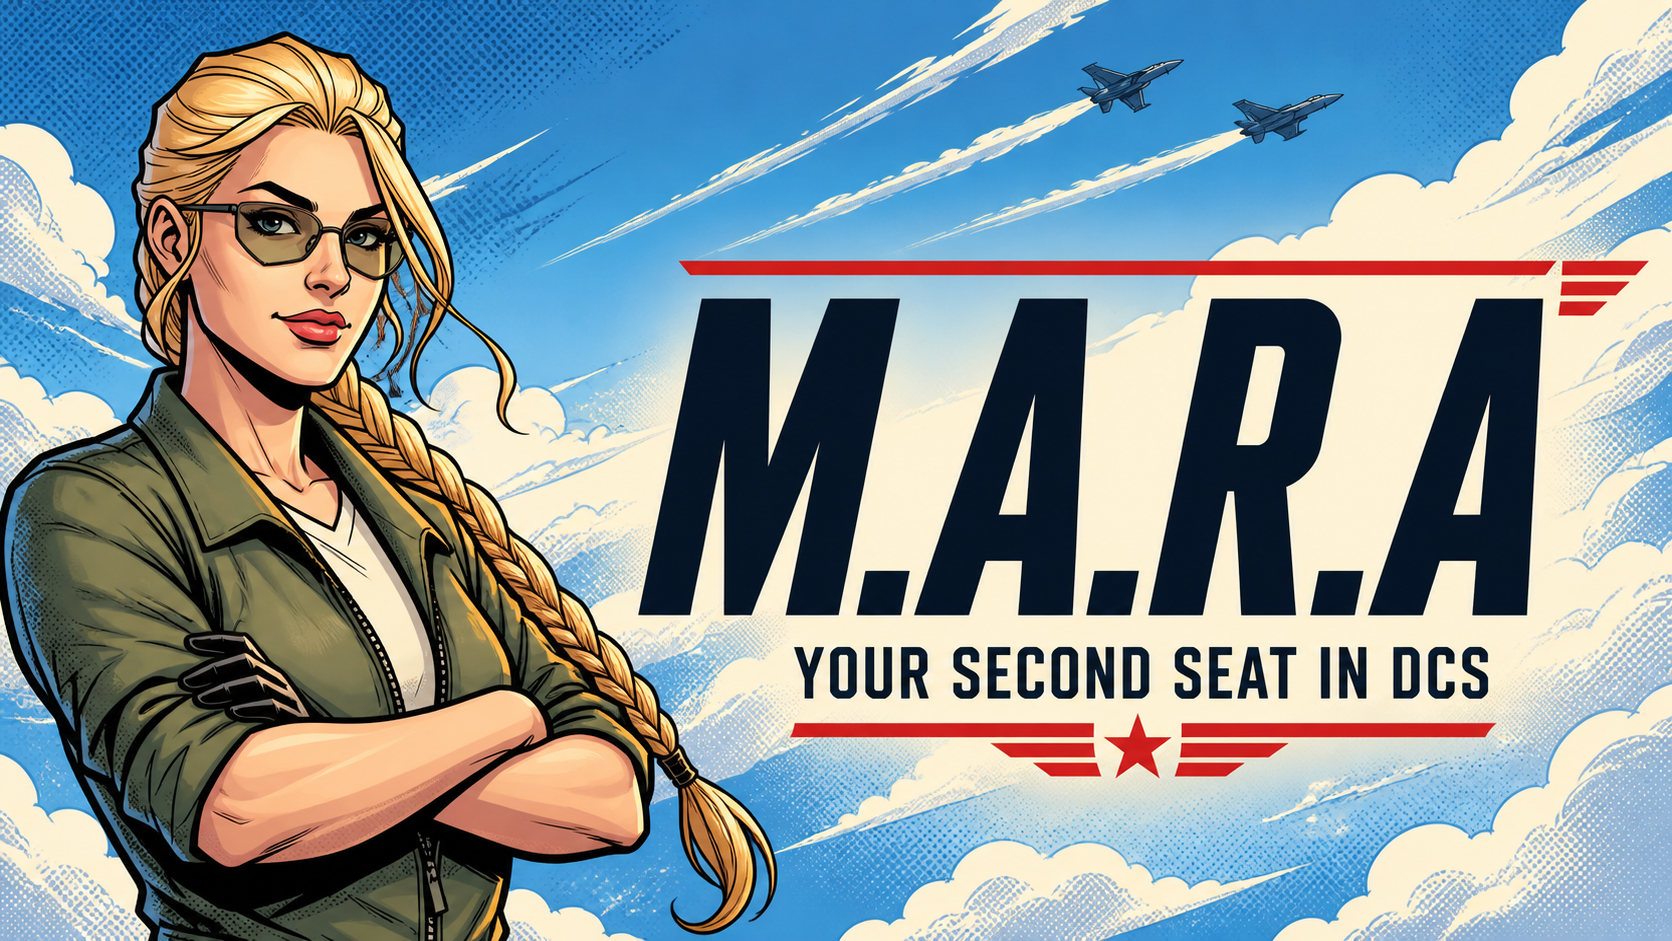
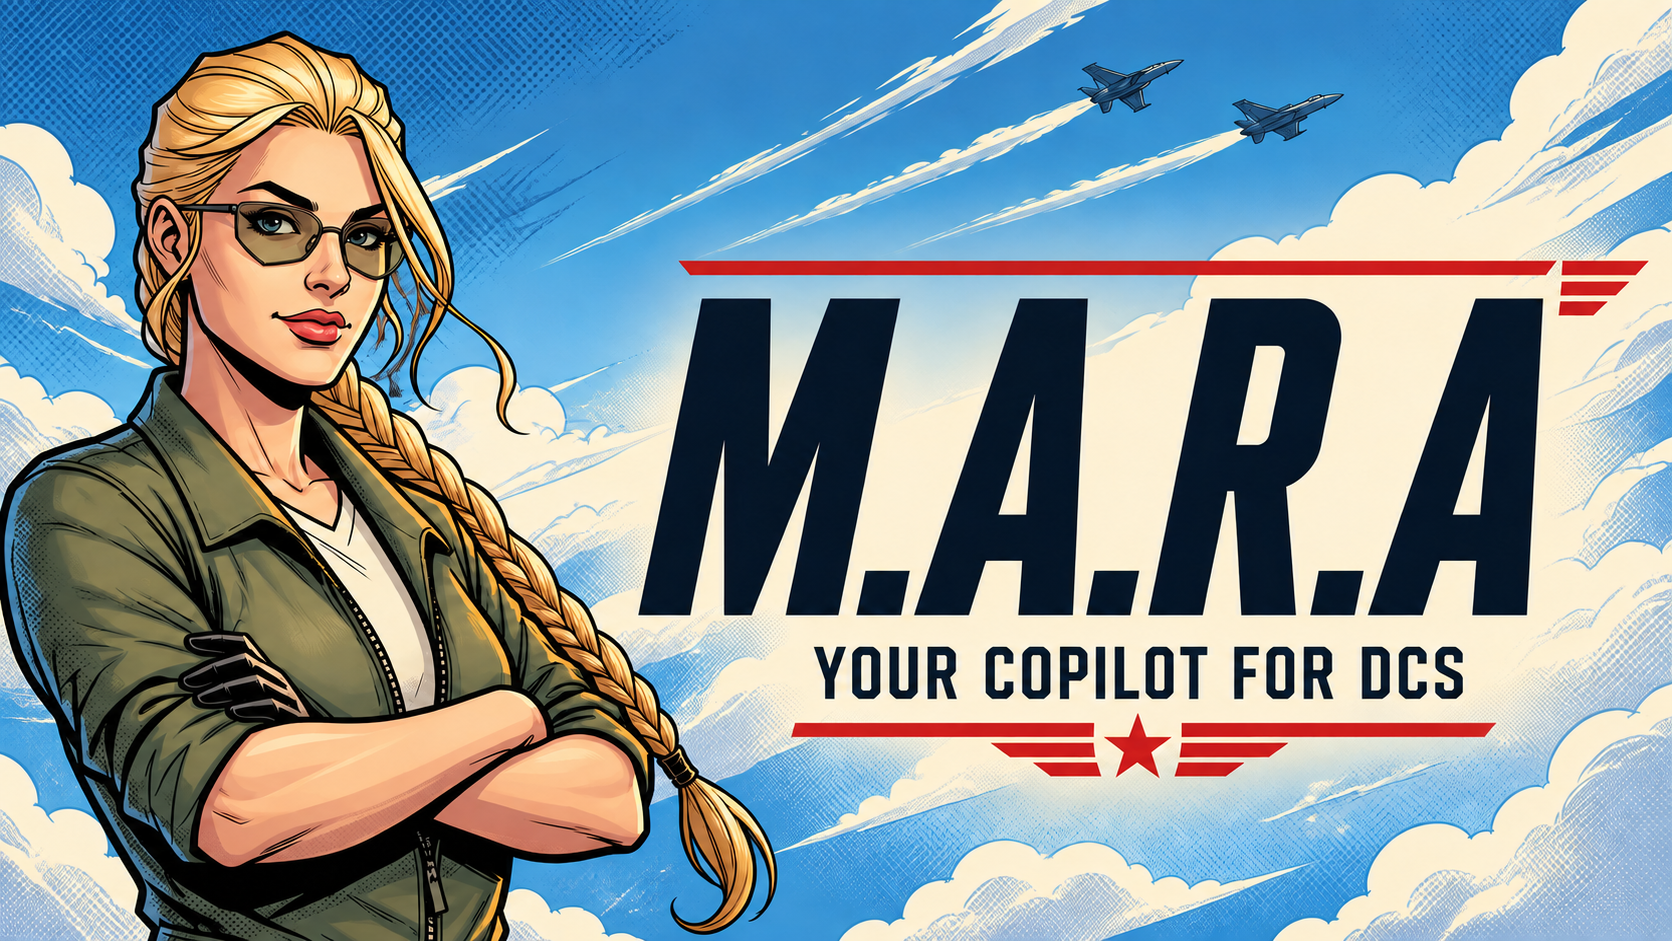
Rewrite MARA site around community early access

diff --git a/website/app/page.tsx b/website/app/page.tsx
@@ -1,10 +1,10 @@
 import { roadmap } from "./roadmap-data";
 
 const capabilities = [
-  ["01", "Startup help", "Follow the Hornet checklist and know when you are ready to taxi."],
-  ["02", "Cockpit awareness", "Ask about switches, aircraft state, and general F/A-18C information."],
-  ["03", "Flight information", "Get useful aircraft and flight status once you are airborne."],
-  ["04", "Your controls", "Choose your microphone and speakers, then bind PTT and mute to a key, modifier combination, or HOTAS button."],
+  ["01", "Startup guidance", "Walk through an F/A-18C cold start step by step. MARA checks supported cockpit state and can tell when you’re ready to continue."],
+  ["02", "Cockpit questions", "Ask what a switch does, why a warning is on, or whether the aircraft is configured for the next step."],
+  ["03", "In-flight help", "Get concise aircraft and flight information without digging through menus or taking your hands off the controls."],
+  ["04", "Hands on the HOTAS", "Bind PTT and mute to a key or HOTAS button and talk to MARA when you need her."],
 ];
 
 export default function Home() {
@@ -18,26 +18,25 @@ export default function Home() {
           <a href="#capabilities">Capabilities</a>
           <a href="#roadmap">Roadmap</a>
           <a href="./docs/">Flight manual</a>
+          <a href="https://github.com/nabbl/dcs-copilot" target="_blank" rel="noreferrer">GitHub ↗</a>
         </nav>
-        <div className="header-actions">
-          <span className="status-pill"><i /> Free early access</span>
-          <a className="kofi-link" href="https://ko-fi.com/nabblsawesome" target="_blank" rel="noreferrer">Support on Ko-fi ↗</a>
-        </div>
+        <span className="status-pill"><i /> Early build</span>
       </header>
 
       <section className="hero" id="top">
         <div className="hero-copy">
-          <p className="eyebrow">Mission-aware realtime assistant</p>
-          <h1>Your second seat.<br /><em>Always watching.</em></h1>
+          <p className="eyebrow">Experimental voice copilot for DCS</p>
+          <h1>Your copilot <em>for DCS</em></h1>
           <p className="lede">
-            MARA is a voice copilot for DCS—aware of your aircraft, your phase
-            of flight, and what needs your attention next.
+            MARA is a voice copilot for DCS. She can follow supported cockpit
+            and flight state, help with procedures, answer questions, and point
+            out things you may have missed.
           </p>
           <div className="hero-actions">
-            <a className="button button-primary" href="./docs/">Read the flight manual <span>→</span></a>
-            <a className="text-link" href="#capabilities">See what she can do ↓</a>
+            <a className="button button-primary" href="./docs/">Get started <span>→</span></a>
+            <a className="text-link" href="#capabilities">See what works today ↓</a>
           </div>
-          <p className="hero-cost"><strong>Free to use.</strong> Bring your own OpenAI API key and pay OpenAI only for the API usage on that key.</p>
+          <p className="hero-cost"><strong>Free to use.</strong> Bring your own OpenAI API key; usage is billed directly to your OpenAI account.</p>
         </div>
 
         <div className="portrait" aria-label="Reserved area for MARA character artwork">
@@ -48,8 +47,8 @@ export default function Home() {
 
       <section className="capabilities" id="capabilities">
         <div className="section-heading">
-          <p className="eyebrow">Built for the sortie</p>
-          <h2>Not a chatbot.<br />A crew member.</h2>
+          <p className="eyebrow">F/A-18C support</p>
+          <h2>What MARA can<br />do today</h2>
         </div>
         <div className="capability-list">
           {capabilities.map(([number, title, body]) => (
@@ -62,15 +61,25 @@ export default function Home() {
         </div>
       </section>
 
+      <section className="why-section">
+        <div>
+          <p className="eyebrow">Why I built this</p>
+          <h2>It started with<br />a cold start.</h2>
+        </div>
+        <div className="why-copy">
+          <p>I started MARA because I wanted something beside me in DCS that could actually understand what was happening in the aircraft—not just respond to voice commands. It started as a cold-start copilot and has slowly grown into an experiment in what a useful virtual crew member could be.</p>
+          <p>I don’t know yet what MARA should become. That’s part of why I’m putting it out there early.</p>
+        </div>
+      </section>
+
       <section className="home-roadmap" id="roadmap">
         <div className="home-roadmap-heading">
           <div>
-            <p className="eyebrow">Development vector</p>
-            <h2>The MARA<br /><em>roadmap.</em></h2>
+            <p className="eyebrow">What I’m working on</p>
+            <h2>Where MARA<br /><em>goes next</em></h2>
           </div>
           <div className="roadmap-summary">
-            <p>MARA starts narrow and earns her way outward: first the F/A-18C, then better awareness and coaching, then more aircraft.</p>
-            <span>Direction, not a promise of dates.</span>
+            <p>This is a working roadmap, not a release schedule. Priorities will change based on what people actually use and ask for.</p>
           </div>
         </div>
         <div className="roadmap-grid" aria-label="MARA product roadmap">
@@ -90,18 +99,30 @@ export default function Home() {
       </section>
 
       <section className="open-source-callout">
-        <p className="eyebrow">Open source</p>
-        <h2>MARA will be<br /><em>open source.</em></h2>
         <div>
-          <p>You’ll be able to read the code, report problems, contribute fixes, and help add support for other aircraft.</p>
-          <a className="button" href="#roadmap">See the roadmap <span>↑</span></a>
+          <p className="eyebrow">Community project</p>
+          <h2>Built for<br /><em>DCS pilots.</em></h2>
         </div>
+        <div className="community-copy">
+          <p>MARA is a hobby project built for DCS pilots. The code is open source, and contributions are welcome—whether that’s a bug report, an aircraft mapping, a procedure, or an idea for something that would actually help in the cockpit.</p>
+          <a className="button" href="https://github.com/nabbl/dcs-copilot" target="_blank" rel="noreferrer">View on GitHub <span>↗</span></a>
+          <p className="community-note">Especially welcome: tell me what you actually want MARA to do.</p>
+        </div>
+      </section>
+
+      <section className="support-callout">
+        <div>
+          <p className="eyebrow">Support the project</p>
+          <h2>Like MARA?</h2>
+        </div>
+        <p>MARA is free and open source. If you want to help cover development costs, you can buy me a coffee.</p>
+        <a className="button" href="https://ko-fi.com/nabblsawesome" target="_blank" rel="noreferrer">Support on Ko-fi <span>↗</span></a>
       </section>
 
       <footer>
         <div className="footer-mark">M.A.R.A</div>
         <p>Mission-Aware Realtime Assistant</p>
-        <div className="footer-links"><a href="#roadmap">Roadmap</a><a href="./docs/">Flight manual →</a></div>
+        <div className="footer-links"><a href="#roadmap">Roadmap</a><a href="./docs/">Flight manual</a><a href="https://github.com/nabbl/dcs-copilot" target="_blank" rel="noreferrer">GitHub ↗</a></div>
       </footer>
     </main>
   );

diff --git a/website/app/globals.css b/website/app/globals.css
@@ -36,9 +36,6 @@ nav { display: flex; gap: 32px; font-size: 13px; font-weight: 700; }
 nav a:hover, footer a:hover { color: var(--red); }
 .status-pill { justify-self: end; border: 1px solid var(--ink); border-radius: 999px; padding: 8px 12px; font: 700 10px var(--font-geist-mono), monospace; text-transform: uppercase; letter-spacing: .08em; }
 .status-pill i { width: 7px; height: 7px; border-radius: 50%; display: inline-block; background: var(--red); margin-right: 7px; }
-.header-actions { justify-self: end; display: flex; align-items: center; gap: 10px; }
-.kofi-link { padding: 9px 12px; color: #fff; background: var(--red); border: 1px solid var(--ink); font: 800 10px var(--font-geist-mono), monospace; letter-spacing: .06em; text-transform: uppercase; box-shadow: 3px 3px 0 var(--ink); }
-.kofi-link:hover { transform: translate(2px, 2px); box-shadow: 1px 1px 0 var(--ink); }
 
 .hero {
   min-height: calc(100vh - 78px);
@@ -52,6 +49,7 @@ nav a:hover, footer a:hover { color: var(--red); }
 .eyebrow::before { content: ""; display: inline-block; width: 36px; height: 3px; margin: 0 10px 3px 0; background: var(--red); }
 h1 { font-size: clamp(54px, 6.7vw, 105px); line-height: .88; letter-spacing: -.07em; margin: 0; font-weight: 950; text-transform: uppercase; }
 h1 em { color: var(--blue); font-style: normal; }
+.hero h1 em { display: block; }
 .lede { max-width: 560px; font-size: clamp(17px, 1.55vw, 22px); line-height: 1.55; margin: 34px 0 38px; }
 .hero-actions { display: flex; align-items: center; gap: 28px; flex-wrap: wrap; }
 .hero-cost { max-width: 560px; margin: 28px 0 0; padding-top: 18px; border-top: 1px solid var(--line); color: #3d4958; font: 650 12px/1.55 var(--font-geist-mono), monospace; }
@@ -82,17 +80,30 @@ h1 em { color: var(--blue); font-style: normal; }
 .capability-list h3 { margin: 0; font-size: 19px; text-transform: uppercase; }
 .capability-list p { margin: 0; line-height: 1.55; color: #3d4958; }
 
+.why-section { padding: clamp(75px, 9vw, 130px) clamp(24px, 7vw, 110px); display: grid; grid-template-columns: .9fr 1.1fr; gap: 9vw; align-items: start; color: var(--cream); background: var(--ink); border-top: 2px solid var(--ink); }
+.why-section h2 { margin: 0; font-size: clamp(44px, 5.5vw, 82px); line-height: .95; letter-spacing: -.055em; text-transform: uppercase; }
+.why-copy { max-width: 680px; font-size: clamp(17px, 1.6vw, 21px); line-height: 1.65; }
+.why-copy p { margin: 0 0 24px; }
+.why-copy p:last-child { margin-bottom: 0; color: var(--sky); }
+
 .home-roadmap { scroll-margin-top: 78px; background: #f8f5e6; border-top: 2px solid var(--ink); }
 .home-roadmap-heading { padding: clamp(75px, 8vw, 120px) clamp(24px, 7vw, 110px); display: grid; grid-template-columns: 1.15fr .85fr; gap: 9vw; align-items: end; }
 .home-roadmap-heading h2 { margin: 0; font-size: clamp(52px, 7vw, 100px); line-height: .9; letter-spacing: -.065em; text-transform: uppercase; }
 .home-roadmap-heading h2 em { color: var(--blue); font-style: normal; }
 
-.open-source-callout { padding: clamp(75px, 8vw, 120px) clamp(24px, 7vw, 110px); display: grid; grid-template-columns: .7fr 1.1fr 1fr; gap: clamp(30px, 5vw, 80px); align-items: start; color: var(--cream); background: var(--blue); border-top: 2px solid var(--ink); }
+.open-source-callout { padding: clamp(75px, 8vw, 120px) clamp(24px, 7vw, 110px); display: grid; grid-template-columns: .9fr 1.1fr; gap: clamp(40px, 8vw, 130px); align-items: start; color: var(--cream); background: var(--blue); border-top: 2px solid var(--ink); }
 .open-source-callout .eyebrow { color: var(--cream); }
 .open-source-callout h2 { margin: 0; font-size: clamp(44px, 5vw, 76px); line-height: .92; letter-spacing: -.055em; text-transform: uppercase; }
 .open-source-callout h2 em { color: var(--ink); font-style: normal; }
-.open-source-callout > div p { margin: 0 0 30px; max-width: 480px; font-size: 17px; line-height: 1.65; }
+.open-source-callout .community-copy > p { margin: 0 0 30px; max-width: 650px; font-size: 17px; line-height: 1.65; }
 .open-source-callout .button { color: var(--ink); background: var(--cream); }
+.open-source-callout .community-note { margin-top: 28px; font: 750 11px/1.55 var(--font-geist-mono), monospace; letter-spacing: .04em; text-transform: uppercase; color: var(--ink); }
+
+.support-callout { padding: clamp(55px, 7vw, 90px) clamp(24px, 7vw, 110px); display: grid; grid-template-columns: .8fr 1fr auto; gap: clamp(30px, 5vw, 80px); align-items: center; background: var(--cream); border-top: 2px solid var(--ink); }
+.support-callout .eyebrow { margin-bottom: 12px; }
+.support-callout h2 { margin: 0; font-size: clamp(38px, 4.5vw, 64px); line-height: .95; letter-spacing: -.05em; text-transform: uppercase; }
+.support-callout > p { max-width: 560px; margin: 0; font-size: 17px; line-height: 1.6; }
+.support-callout .button { white-space: nowrap; color: #fff; background: var(--red); }
 
 footer { min-height: 150px; padding: 38px clamp(24px, 7vw, 110px); display: grid; grid-template-columns: auto 1fr auto; align-items: center; gap: 25px; color: var(--cream); background: var(--ink); }
 .footer-mark { font-size: 28px; font-weight: 950; }
@@ -106,12 +117,13 @@ footer a { font-size: 13px; font-weight: 800; text-transform: uppercase; }
   .hero { grid-template-columns: 1fr; }
   .portrait { min-height: 610px; border-left: 0; border-top: 2px solid var(--ink); }
   .capabilities { grid-template-columns: 1fr; }
+  .why-section { grid-template-columns: 1fr; }
   .home-roadmap-heading { grid-template-columns: 1fr; }
   .open-source-callout { grid-template-columns: 1fr; }
+  .support-callout { grid-template-columns: 1fr; }
 }
 @media (max-width: 600px) {
   .wordmark span, .status-pill { display: none; }
-  .kofi-link { font-size: 8px; padding: 8px 9px; }
   .hero-copy { padding: 70px 24px 76px; }
   h1 { font-size: clamp(48px, 15vw, 70px); }
   .portrait { min-height: 520px; }
@@ -148,7 +160,7 @@ footer a { font-size: 13px; font-weight: 800; text-transform: uppercase; }
 .manual-label { justify-self: end; font: 700 10px var(--font-geist-mono), monospace; letter-spacing: .12em; color: var(--blue); }
 .docs-main-links { display: flex; gap: 28px; font-size: 12px; font-weight: 750; }
 .docs-main-links a:hover { color: var(--red); }
-.docs-header > .kofi-link { justify-self: end; }
+.docs-header > .status-pill { justify-self: end; }
 .docs-sidebar {
   padding: 48px 28px 40px clamp(24px, 4vw, 56px);
   border-right: 1px solid var(--line);

diff --git a/website/app/roadmap-data.ts b/website/app/roadmap-data.ts
@@ -1,9 +1,9 @@
 export const roadmap = [
   {
     phase: "NOW",
-    label: "Early access",
+    label: "Getting the basics right",
     title: "A useful Hornet copilot",
-    intro: "The first public slice is intentionally focused: one aircraft, a dependable startup journey, and useful airborne context.",
+    intro: "The first public version focuses on one aircraft and making the things MARA already does reliable and useful.",
     items: [
       ["Startup guidance", "Guided F/A-18C checklist assistance from cockpit entry through taxi readiness."],
       ["Cockpit-aware answers", "Reads supported switch and aircraft state, then answers questions with that live context."],
@@ -12,21 +12,21 @@ export const roadmap = [
   },
   {
     phase: "NEXT",
-    label: "Awareness & coaching",
-    title: "See more. Teach better.",
-    intro: "The next work turns MARA from a cockpit-aware copilot into a more capable training and situational-awareness partner.",
+    label: "After the basics",
+    title: "Better awareness and coaching",
+    intro: "Once the basics are solid, the focus shifts toward helping pilots notice more and improve how they fly.",
     items: [
-      ["Combat awareness", "Help with radar contacts and analysis of the pilot’s radar picture."],
-      ["Spatial Coach", "Finish live formation coaching, carrier approaches, CASE I segmentation, feedback, and debriefs."],
-      ["Awareness-gap detection", "Identify specific differences between what the pilot appears to understand and what the available environment data shows."],
-      ["Live validation", "Qualify behaviour across real single-player and multiplayer missions, including export restrictions."],
+      ["Radar assistance", "Help interpret the radar picture and information already available to the pilot."],
+      ["Missed cues", "Point out important cockpit or flight-state cues that are easy to overlook."],
+      ["Formation & carrier coaching", "Evaluate formation position, carrier approaches and CASE I patterns when the server allows the required telemetry."],
+      ["Real-world testing", "Test behaviour across single-player and multiplayer missions, including servers with export restrictions."],
     ],
   },
   {
     phase: "LATER",
-    label: "Broader capability",
-    title: "More airframes. Deeper help.",
-    intro: "Once the Hornet experience is trustworthy, MARA can expand without weakening the deterministic safety boundary.",
+    label: "If it proves useful",
+    title: "More aircraft and deeper support",
+    intro: "If people find MARA useful, expand support without making the existing aircraft worse.",
     items: [
       ["More fixed-wing aircraft", "Add aircraft through versioned cockpit mappings, curated knowledge, and explicit tests."],
       ["Helicopter support", "Extend flight-state, procedures, and coaching to rotary-wing operations."],

diff --git a/website/app/roadmap/page.tsx b/website/app/roadmap/page.tsx
@@ -13,18 +13,17 @@ export default function RoadmapPage() {
     <main className="roadmap-page">
       <header className="docs-header roadmap-header">
         <a className="wordmark" href="../">M.A.R.A <span>{"///"} DCS COPILOT</span></a>
-        <div className="docs-main-links"><a href="../">Overview</a><a href="../docs/">Flight manual</a></div>
-        <a className="kofi-link" href="https://ko-fi.com/nabblsawesome" target="_blank" rel="noreferrer">Support on Ko-fi ↗</a>
+        <div className="docs-main-links"><a href="../">Overview</a><a href="../docs/">Flight manual</a><a href="https://github.com/nabbl/dcs-copilot" target="_blank" rel="noreferrer">GitHub ↗</a></div>
+        <span className="status-pill"><i /> Early build</span>
       </header>
 
       <section className="roadmap-intro">
         <div>
-          <p className="eyebrow">Development vector</p>
-          <h1>The MARA<br /><em>roadmap.</em></h1>
+          <p className="eyebrow">What I’m working on</p>
+          <h1>Where MARA<br /><em>goes next</em></h1>
         </div>
         <div className="roadmap-summary">
-          <p>MARA starts narrow and earns her way outward: first the F/A-18C, then better awareness and coaching, then more aircraft.</p>
-          <span>Direction, not a promise of dates.</span>
+          <p>This is a working roadmap, not a release schedule. Priorities will change based on what people actually use and ask for.</p>
         </div>
       </section>
 
@@ -44,9 +43,9 @@ export default function RoadmapPage() {
       </section>
 
       <section className="open-source-roadmap">
-        <div><span>OPEN SOURCE</span><h2>The code will be public.</h2></div>
-        <p>Once the early-access release is ready, the repository will be public. Contributions, testing, and support for more aircraft will be welcome.</p>
-        <a className="button" href="https://ko-fi.com/nabblsawesome" target="_blank" rel="noreferrer">Support development <span>↗</span></a>
+        <div><span>COMMUNITY PROJECT</span><h2>The code is public.</h2></div>
+        <p>MARA is open source. Bug reports, testing, aircraft mappings, procedures, and ideas for useful cockpit help are all welcome.</p>
+        <a className="button" href="https://github.com/nabbl/dcs-copilot" target="_blank" rel="noreferrer">View on GitHub <span>↗</span></a>
       </section>
     </main>
   );

diff --git a/website/app/layout.tsx b/website/app/layout.tsx
@@ -5,8 +5,8 @@ import "./globals.css";
 const geistSans = Geist({ variable: "--font-geist-sans", subsets: ["latin"] });
 const geistMono = Geist_Mono({ variable: "--font-geist-mono", subsets: ["latin"] });
 
-const title = "MARA — Your second seat in DCS";
-const description = "Meet MARA, the free mission-aware voice copilot for DCS. Bring your own OpenAI API key.";
+const title = "MARA — Your copilot for DCS";
+const description = "MARA is a free, open-source voice copilot for DCS. Bring your own OpenAI API key.";
 
 export function generateMetadata(): Metadata {
   const siteOrigin = process.env.PUBLIC_SITE_ORIGIN;
@@ -20,7 +20,7 @@ export function generateMetadata(): Metadata {
       title,
       description,
       type: "website",
-      ...(image ? { images: [{ url: image, width: 1672, height: 941, alt: "MARA — your second seat in DCS" }] } : {}),
+      ...(image ? { images: [{ url: image, width: 1672, height: 941, alt: "MARA — your copilot for DCS" }] } : {}),
     },
     twitter: {
       card: "summary_large_image",

diff --git a/website/app/docs/page.tsx b/website/app/docs/page.tsx
@@ -41,8 +41,8 @@ export default function DocsPage() {
     <main className="docs-shell" id="top">
       <header className="docs-header">
         <a className="wordmark" href="../">M.A.R.A <span>{"///"} DCS COPILOT</span></a>
-        <div className="docs-main-links"><a href="../">Overview</a><a href="../#roadmap">Roadmap</a></div>
-        <a className="kofi-link" href="https://ko-fi.com/nabblsawesome" target="_blank" rel="noreferrer">Support on Ko-fi ↗</a>
+        <div className="docs-main-links"><a href="../">Overview</a><a href="../#roadmap">Roadmap</a><a href="https://github.com/nabbl/dcs-copilot" target="_blank" rel="noreferrer">GitHub ↗</a></div>
+        <span className="status-pill"><i /> Early build</span>
       </header>
 
       <aside className="docs-sidebar">

diff --git a/website/content/manual.md b/website/content/manual.md
@@ -136,7 +136,7 @@ Ask for concise status on fuel, navigation, defensive systems, landing configura
 
 ### What is not ready yet
 
-Radar-picture analysis, combat-awareness assistance, situational-awareness gap detection, and the full Spatial Coach experience are on the [roadmap](../roadmap/). Foundations for formation work, carrier approaches, and CASE I practice exist, but they are not part of the current early-access promise.
+Radar assistance, missed-cue detection, and formation and carrier coaching are on the [roadmap](../roadmap/). Foundations for formation work, carrier approaches, and CASE I practice exist, but they are not part of the current early-access promise.
 
 ## Voice and controls
 
@@ -152,7 +152,7 @@ Speech modes are deliberately simple:
 
 - **Minimal** — only the most time-critical warnings.
 - **Normal** — warnings plus useful operational advisories.
-- **Coach** — the broadest proactive speech setting. This is separate from the planned Spatial Coach experience.
+- **Coach** — the broadest proactive speech setting. This is separate from the planned formation and carrier coaching work.
 
 ## Privacy boundary
 
